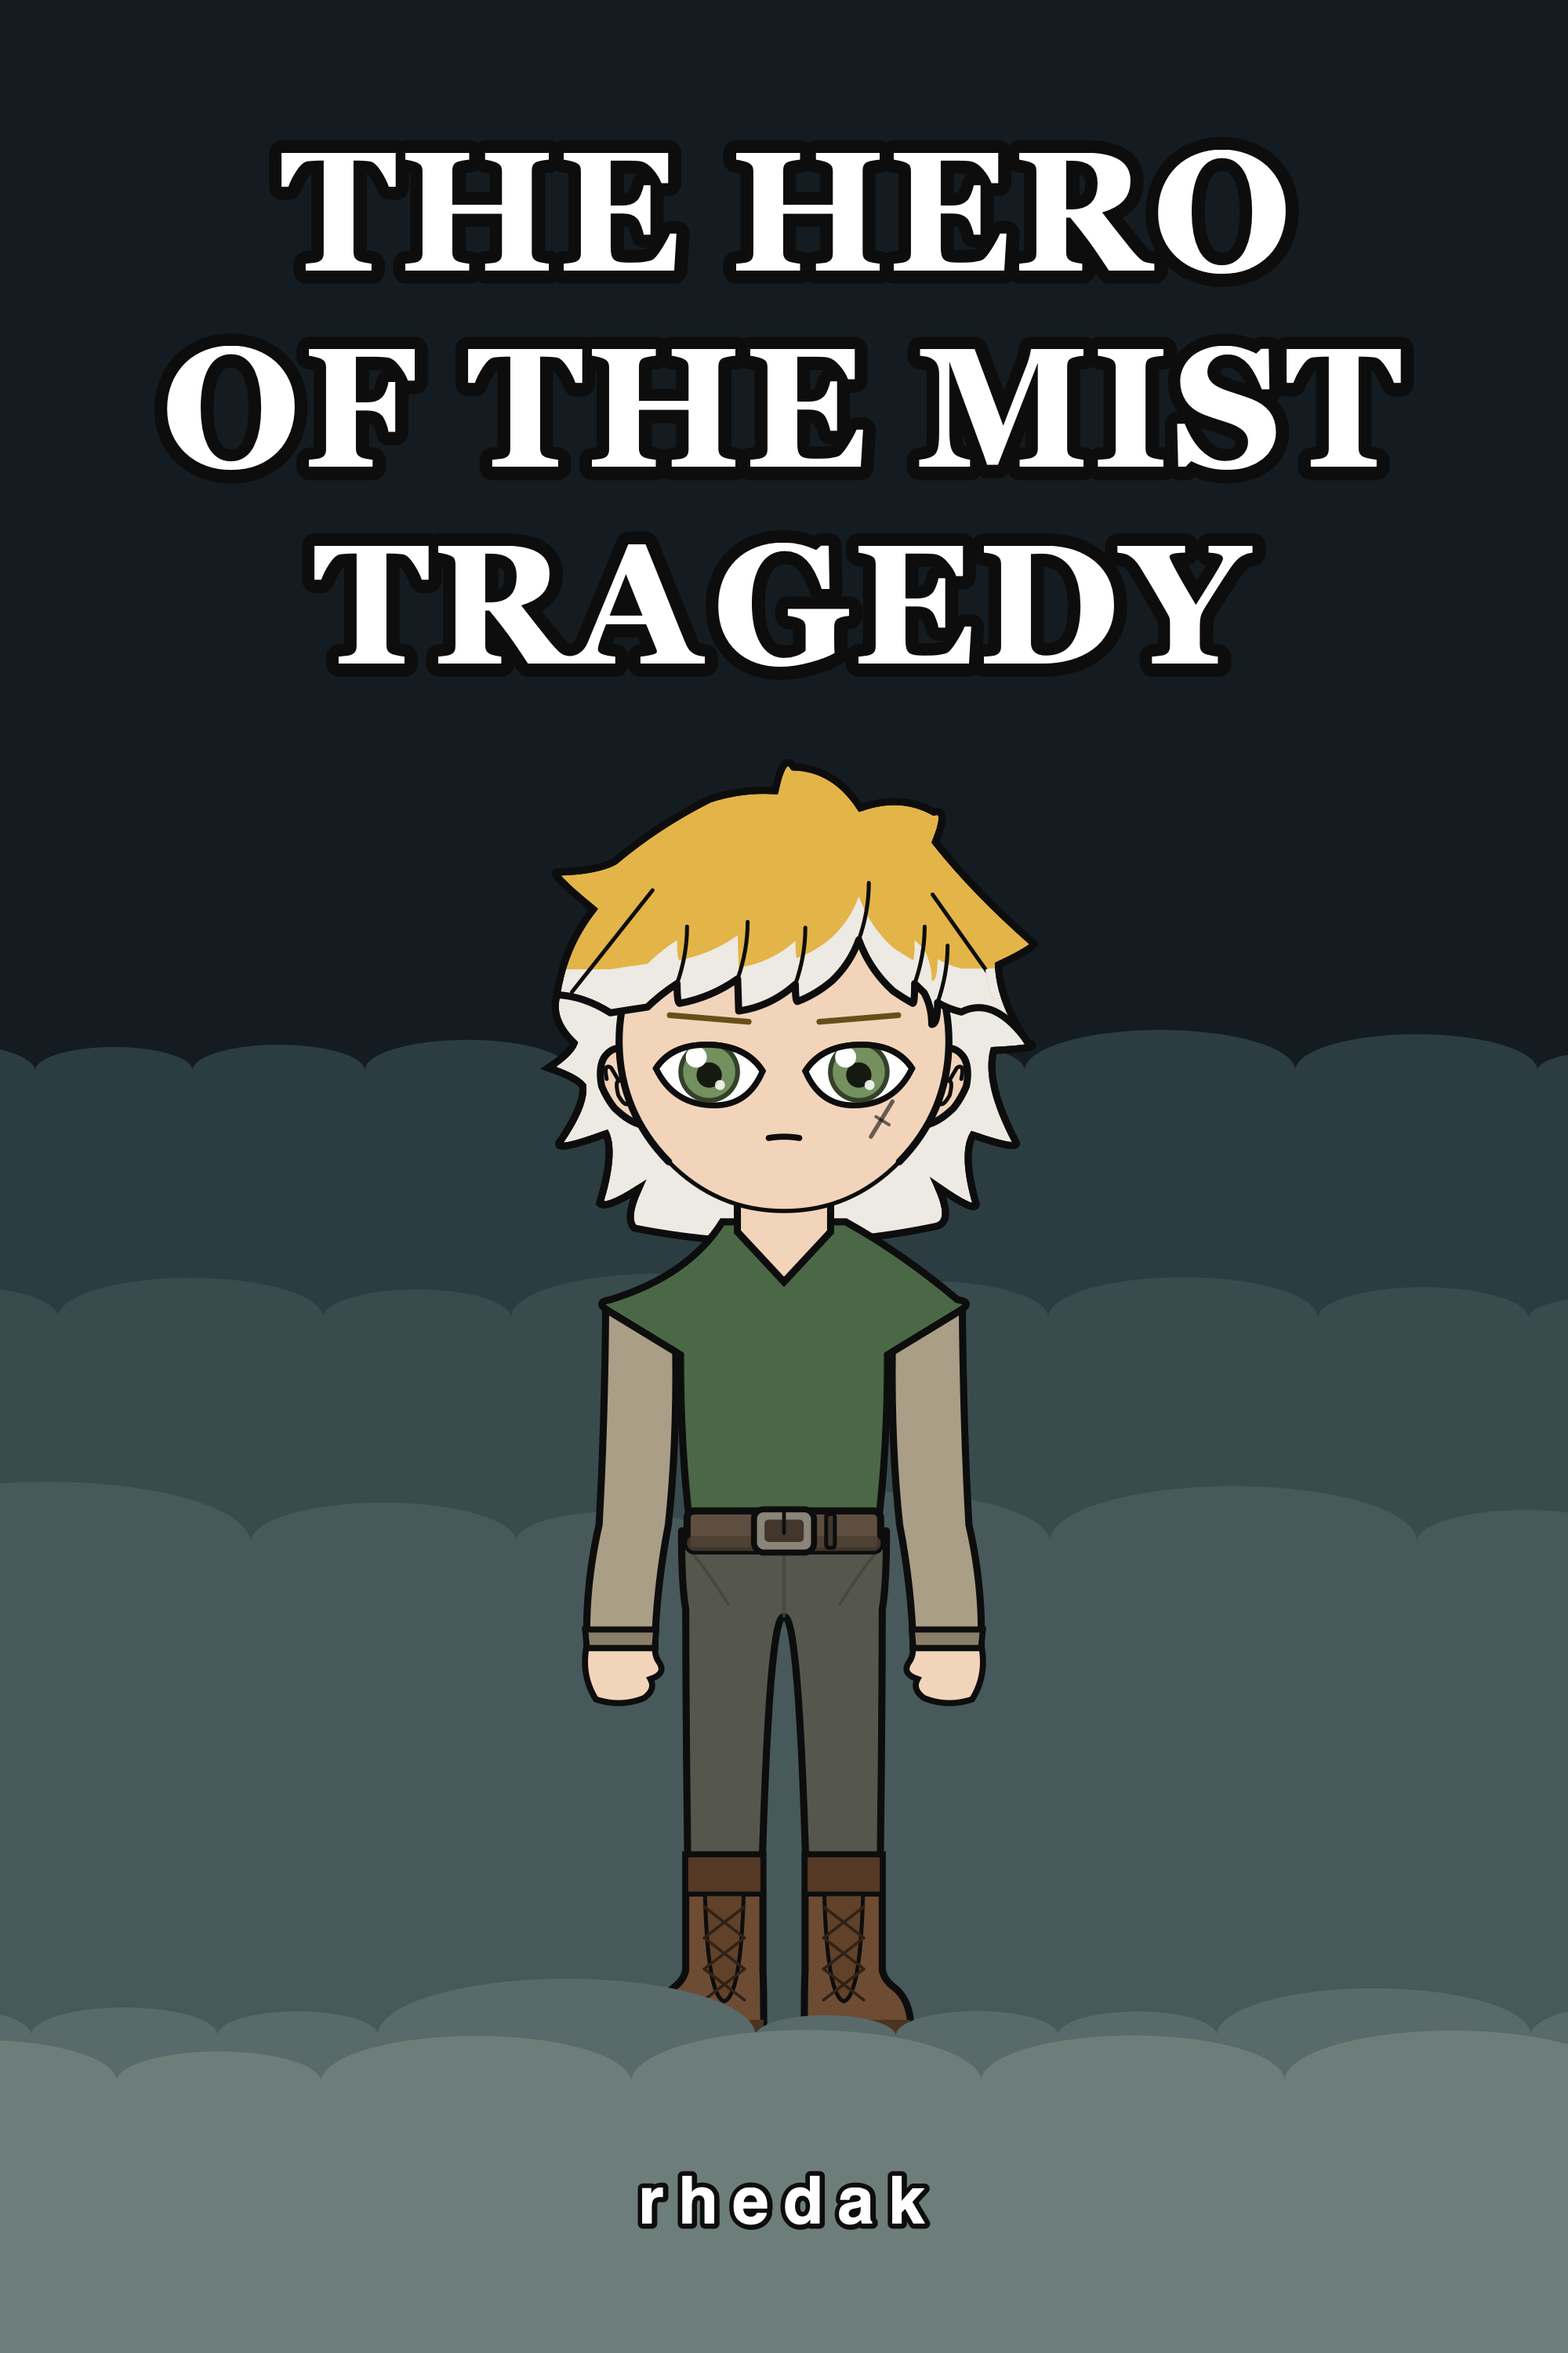
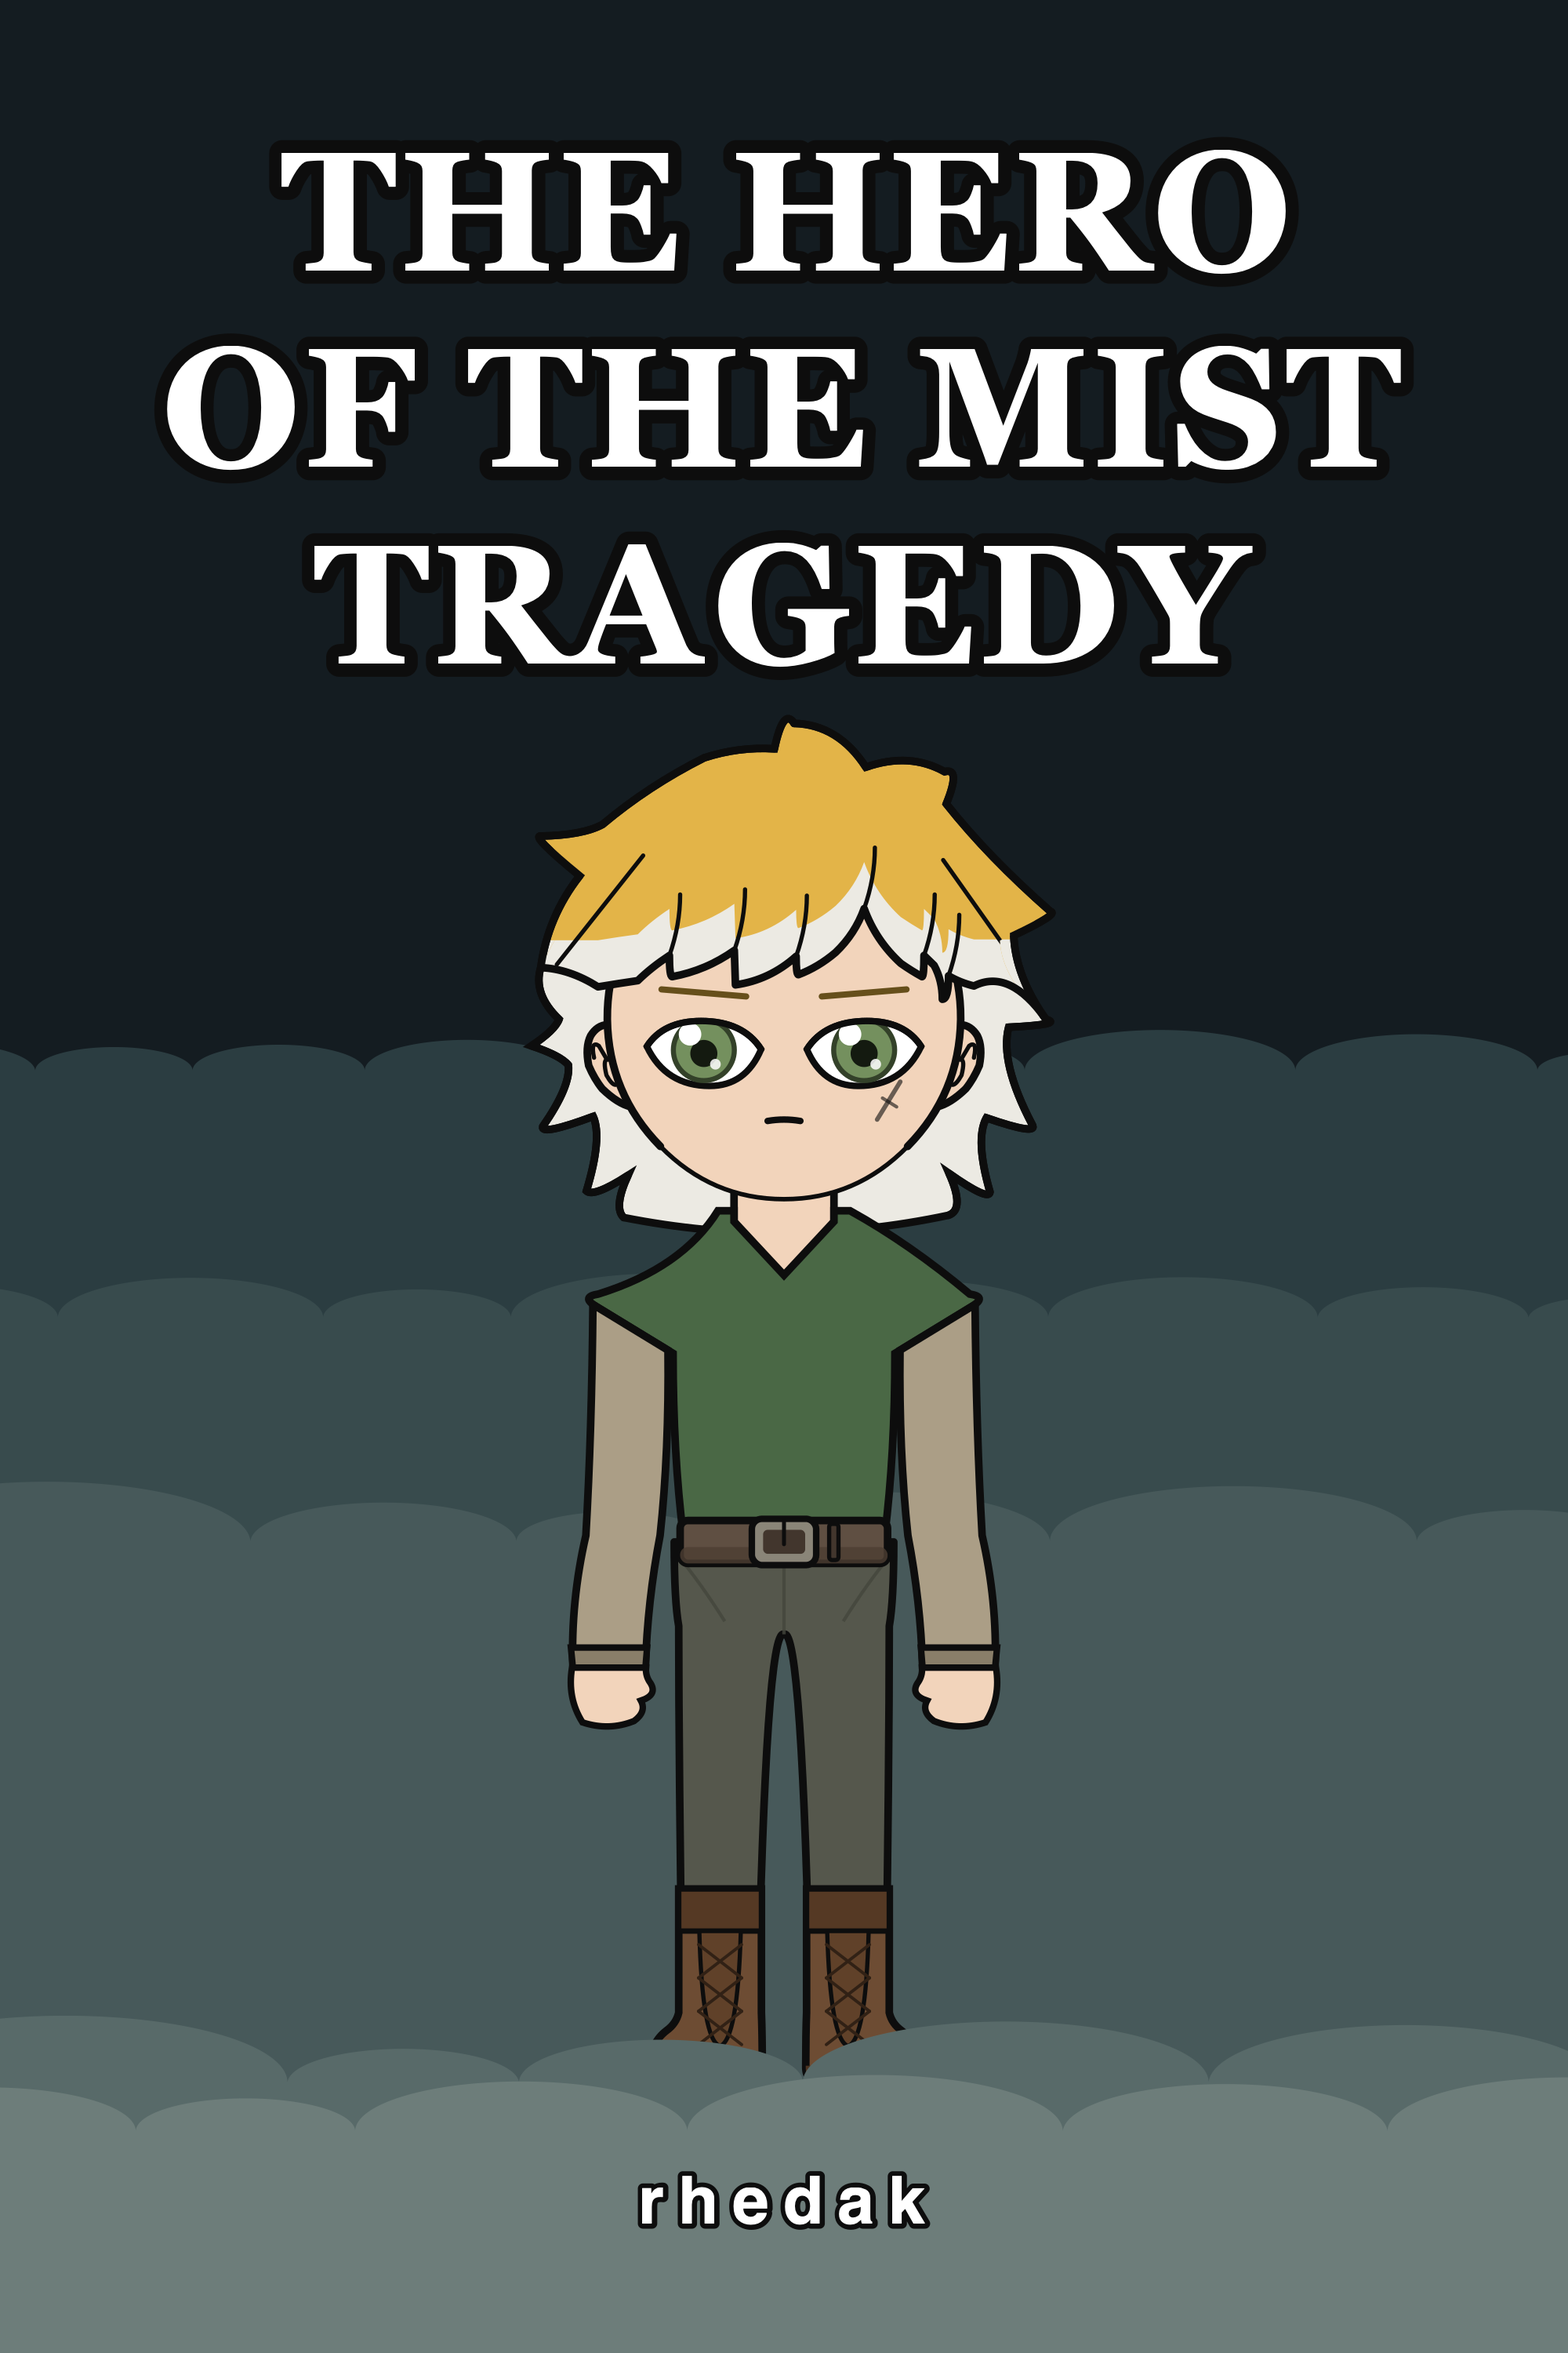
cover: larger figure on the tall chibi, mist off his boot

Changed region(s): [[0.341, 0.31, 0.682, 0.899], [0.279, 0.868, 0.372, 0.899], [0.744, 0.868, 0.806, 0.899]]

diff --git a/src/anime_character_creator/cover.py b/src/anime_character_creator/cover.py
@@ -115,9 +115,13 @@ class CoverParams:
     # How low each mist bump is against its width. See `_mist_band`: this is the
     # number that separates mist from foam.
     mist_flatness: float = 0.30
-    # Where the figure sits, as fractions of the page.
-    figure_height: float = 0.56
-    figure_feet_y: float = 0.865
+    # Where the figure sits, as fractions of the page. The default body is taller
+    # and slimmer than the shared chibi this was first laid out for, with a head
+    # about 0.7 as wide, so it stands a little larger and lower: 0.60 keeps its
+    # hair 31px clear of the title's last line (0.56 left it small on the page,
+    # and 0.62 puts the hair on the title).
+    figure_height: float = 0.60
+    figure_feet_y: float = 0.885
 
 
 def _jitter(i: int) -> float:
@@ -275,7 +279,12 @@ def render_cover(p: CoverParams | None = None, metadata: bool = False) -> str:
     for i, (top, scale, seed) in enumerate(behind):
         layers.append(_mist_band(p, H * top, H - H * top, pal.mist[i], seed, scale))
     layers.append(_figure(p, sk, character, k, x, y))
-    layers.append(_mist_band(p, sole, H - sole, pal.mist[3], 59, near))
+    # The seed is chosen so one bump does not sit across a boot: with 59, a single
+    # large bump buried 77% of his right boot and left the other 27% (the
+    # viewer's left and right). 128 buries both by 56%, measured on the boots'
+    # own columns, and has to be re-picked if `figure_height` or the build moves
+    # the feet.
+    layers.append(_mist_band(p, sole, H - sole, pal.mist[3], 128, near))
     layers.append(_mist_band(p, sole + foot_h * 0.7, H, pal.mist[4], 83, near * 1.25))
 
     size = H * 0.072

diff --git a/docs/satoshi-tall-chibi-plan.md b/docs/satoshi-tall-chibi-plan.md
@@ -289,8 +289,20 @@ one; not yet fixed unless ticked above.
       default body's boots reach the hem, so the bare shins the shared chibi shows
       are mostly covered. Looked at (`out/skirt_hems_now.png`): the hems read
       cleanly. Nothing changed.
-- [ ] **The cover** (`cover.py`): Satoshi is smaller in the frame on the taller
-      body; the layout was tuned to the shared chibi.
+- [x] **The cover** (`cover.py`), 2026-09-20: the layout scales the figure's
+      whole canvas to a share of the page, so the default body's smaller head
+      (about 0.7 as wide as the shared chibi's) shrank the face the cover is
+      built around and left the page empty. `figure_height` 0.56 to 0.60 and
+      `figure_feet_y` 0.865 to 0.885: the largest scale that keeps the hair 31px
+      clear of the title (0.62 puts it on the last line). The head is 228px across
+      against 213px before and 296px on the shared chibi, so the cover is a
+      taller, quieter figure than the chibi one; `out/cover_before_after.png`.
+      The owner's call: the cover uses the tall chibi (its docstring's "the design"
+      was the shared chibi). The front mist bank's seed went from 59 to 128 for the
+      same reason: with 59 one large bump buried 77% of his right boot (the viewer's
+      left) and the other boot only 27%; 128 buries both 56%, measured on the boots'
+      own columns. The seed has to be re-picked if the figure's scale or build moves
+      the feet.
 - [ ] **Head size.** Not judged: whether the smaller head costs too much of the
       chibi look.
 - [ ] **Realistic builds** need their own pass (Satoshi's and the cast's), left
